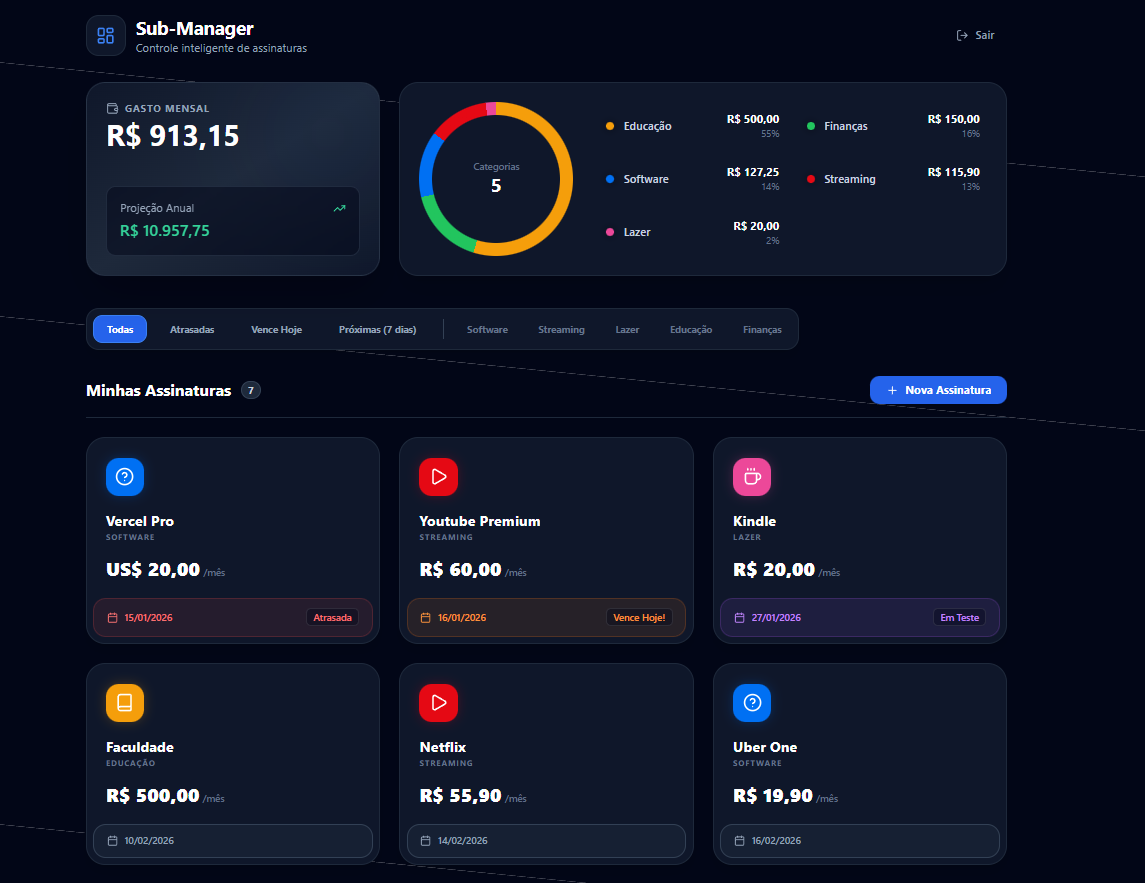
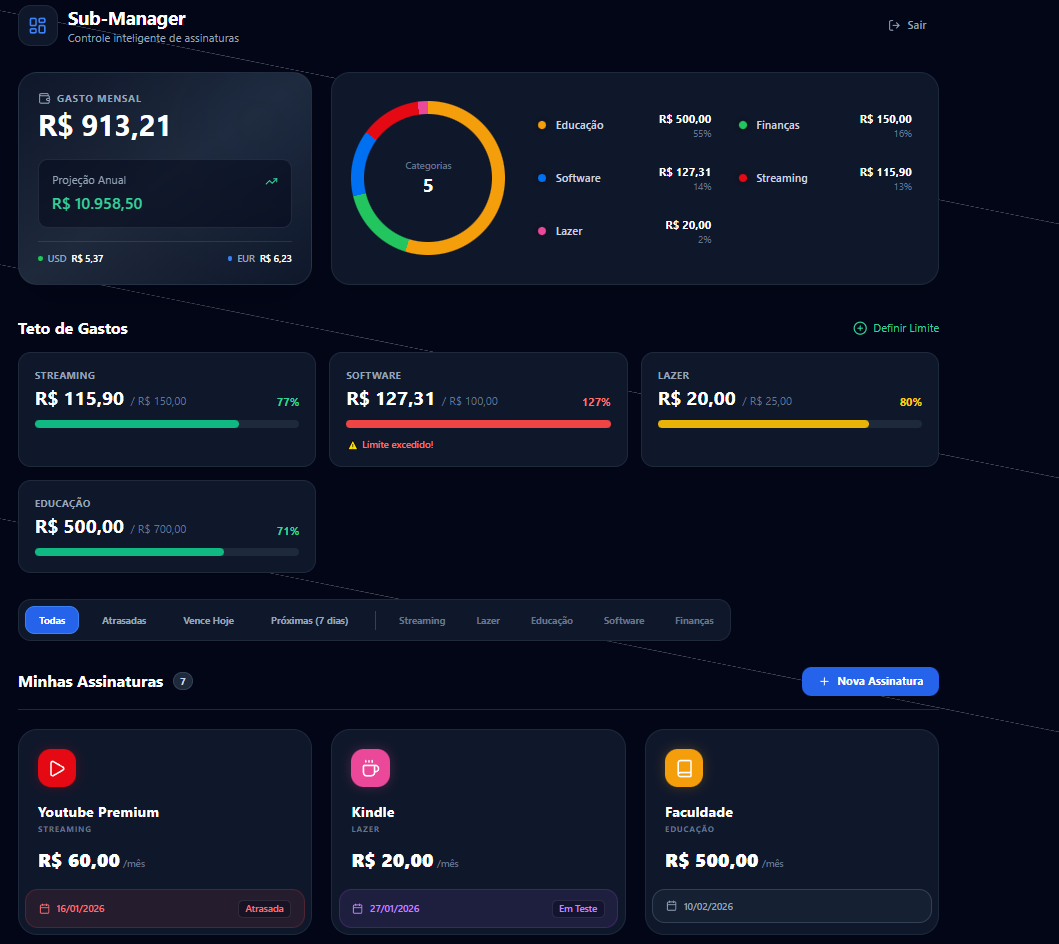
docs: update readme with resend architecture and new auth design

diff --git a/scripts/check-alerts.js b/scripts/check-alerts.js
@@ -81,7 +81,7 @@ async function checkAndNotify() {
             </li>
           `).join('')}
         </ul>
-        <p>Acesse seu painel para dar baixa: <a href="https://seu-projeto.vercel.app">Ir para Dashboard</a></p>
+        <p>Acesse seu painel para dar baixa: <a href="https://sub-managers.vercel.app/">Ir para Dashboard</a></p>
       </div>
     `;
 

diff --git a/README.md b/README.md
@@ -1,62 +1,71 @@
-# 💰 Subscription Manager (SaaS Dashboard)
+# 💰 Sub-Manager (SaaS Dashboard)
 
-![Project Banner](https://img.shields.io/badge/Status-Production-green) ![License](https://img.shields.io/badge/License-MIT-blue)  ![Supabase](https://img.shields.io/badge/Supabase-Backend-green)
+![Status](https://img.shields.io/badge/Status-Production-emerald?style=for-the-badge)
+![Tech](https://img.shields.io/badge/React-blue?style=for-the-badge)
+![Supabase](https://img.shields.io/badge/Supabase-Backend-green?style=for-the-badge)
+![TypeScript](https://img.shields.io/badge/TypeScript-blue?style=for-the-badge)
+![Resend](https://img.shields.io/badge/Resend-Email_API-black?style=for-the-badge)
 
-> Uma aplicação Full-Stack para gerenciamento inteligente de assinaturas recorrentes, com dashboard financeiro e sistema automatizado de alertas via Discord.
+> **Controle Financeiro Inteligente:** Gerencie assinaturas recorrentes , defina tetos de gastos por categoria e receba alertas automáticos de vencimento.
 
 ![Screenshot do Dashboard](src/assets/img/image.png)
-
-
 ---
 
 ## 🚀 Sobre o Projeto
 
-O **Subscription Manager** resolve o problema de esquecer datas de vencimento de assinaturas (Netflix, Spotify, Adobe, etc.). O sistema permite cadastrar serviços, visualizar o custo mensal total e acompanhar status de pagamento.
+O **Sub-Manager** resolve o problema da "assinatura fantasma" e do descontrole financeiro em serviços recorrentes (Netflix, Adobe, AWS, Spotify).
 
-O diferencial técnico é a integração **Serverless** via **GitHub Actions**, que executa um Cron Job diário para verificar o banco de dados e notificar o usuário no Discord sobre contas vencendo no dia ou no dia seguinte.
+Diferente de planilhas comuns, este projeto é um **Web App Full-Stack** que oferece:
+1.  **Monitoramento Ativo:** Cálculo automático de gastos mensais e anuais.
+2.  **Conversão de Moedas:** Suporte a assinaturas em BRL, USD e EUR com cotação em tempo real.
+3.  **Sistema de Orçamentos (Budgets):** Defina limites de gastos (ex: "Máximo R$ 100 em Streaming") e acompanhe visualmente o progresso.
+4.  **Automação Serverless:** Um Cron Job roda diariamente via **GitHub Actions** para verificar o banco de dados e dispara e-mails transacionais individualizados apenas para os usuários que têm contas vencendo, garantindo privacidade e escalabilidade.
 
-## ✨ Funcionalidades Principais
+## ✨ Funcionalidades
 
-- 📊 **Dashboard Financeiro:** Visualização clara do total gasto mensalmente.
-- 🔄 **Gestão de Assinaturas (CRUD):** Adicionar, editar e remover serviços.
-- 🎨 **UI/UX Moderno:** Interface responsiva construída com Tailwind CSS e Dark Mode.
-- 🔐 **Autenticação Segura:** Login e cadastro de usuários via Supabase Auth.
-- 🤖 **Automação de Alertas (DevOps):**
-  - Script Node.js roda automaticamente todo dia às 09:00 (GitHub Actions).
-  - Verifica vencimentos no Banco de Dados.
-  - Envia notificação Push via Webhook para canal privado no Discord.
+### 📊 Dashboard & Analytics
+- **Visão Geral:** Cards com Total Mensal, Projeção Anual e Cotação do Dólar/Euro.
+- **Gráfico de Distribuição:** Visualização Donut Chart dos gastos por categoria.
+- **Filtros Inteligentes:** Visualize apenas contas "Atrasadas", "Vencendo Hoje" ou por Categoria.
 
+### 💰 Gestão de Orçamento
+- **Teto de Gastos:** Crie limites financeiros para categorias específicas.
+- **Barra de Progresso Visual:**
+  - 🟢 **Verde:** Gasto sob controle.
+  - 🟡 **Amarelo:** Alerta (80% do limite).
+  - 🔴 **Vermelho:** Limite estourado.
+- **CRUD Completo:** Adicione, Edite ou Remova orçamentos dinamicamente.
+
+### 🔄 Assinaturas
+- Cadastro detalhado (Ciclo Mensal/Anual, Moeda, Data).
+- Suporte a Período de Testes (Trial).
+- Renovação rápida com um clique ("Marcar como Pago").
+
+### 🤖 DevOps & Automação
+- **Serverless Cron Job:** Script Node.js executado todo dia às 09:00 AM (UTC-3).
+- **Notificações:** Alertas enviados para canal privado no Discord via Webhooks.
+
+---
 ## 🛠 Tecnologias Utilizadas
 
 **Frontend:**
-- [React.js](https://reactjs.org/) (Vite)
-- [TypeScript](https://www.typescriptlang.org/)
-- [Tailwind CSS](https://tailwindcss.com/)
-- [Lucide React](https://lucide.dev/) (Ícones)
+- React.js + Vite
+- TypeScript
+- Tailwind CSS (Estilização)
+- TanStack Query (State Management)
+- Lucide React (Ícones)
 
 **Backend & Data:**
-- [Supabase](https://supabase.com/) (PostgreSQL Database & Auth)
-- [Node.js](https://nodejs.org/) (Scripts de Automação)
+- **Supabase:** PostgreSQL Database, Auth & Row Level Security (RLS).
+- **Resend:** API de E-mails Transacionais.
+- **Node.js:** Scripts de automação.
 
-**DevOps & Tools:**
-- [GitHub Actions](https://github.com/features/actions) (CI/CD & Cron Jobs)
-- [Discord Webhooks](https://discord.com/developers/docs/resources/webhook)
-- [Vercel](https://vercel.com/) (Deploy de Produção)
+**Infraestrutura:**
+- **Vercel:** Deploy do Frontend.
+- **GitHub Actions:** CI/CD e Agendamento de Scripts (Cron).
 
 ---
 
-## ⚙ Arquitetura da Automação
-
-O sistema de alertas funciona de forma totalmente autônoma, sem necessidade de servidor ligado 24h:
-
-```mermaid
-graph LR
-A[GitHub Actions (Cron)] -- 09:00 AM --> B(Script Node.js)
-B -- Query Vencimentos --> C[(Supabase DB)]
-C -- Retorna Dados --> B
-B -- Payload JSON --> D{Discord Webhook}
-D -- Notificação Push --> E[📱 Celular do Usuário]
-```
 
 ## 🚀 Como Rodar Localmente
 ### Pré-requisitos
@@ -71,19 +80,22 @@ cd sub-manager
 ```
 
 ### Instale as dependências:
-```
+```bash
 $ npm install
 ```
 
 ### Configure as Variáveis de Ambiente: Crie um arquivo .env na raiz e preencha com suas chaves do Supabase:
 ```
- VITE_SUPABASE_URL=sua_url_do_supabase
- VITE_SUPABASE_ANON_KEY=sua_chave_anonima
+# Frontend (Vercel/Local)
+VITE_SUPABASE_URL=sua_url_supabase
+VITE_SUPABASE_ANON_KEY=sua_chave_publica
 
- DISCORD_WEBHOOK_URL=seu_webhook_discord (opcional para rodar script local)
+# Backend Scripts (GitHub Secrets / Local)
+SUPABASE_SERVICE_ROLE_KEY=sua_chave_secreta_admin
+RESEND_API_KEY=re_123456_sua_chave_resend
 ```
 ### Rode o projeto:
-```
+```bash
 $ npm run dev
 ```
 
